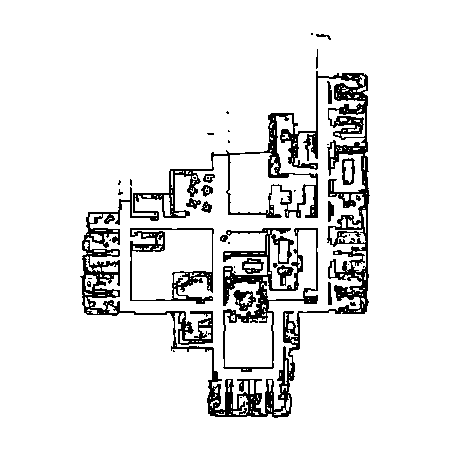
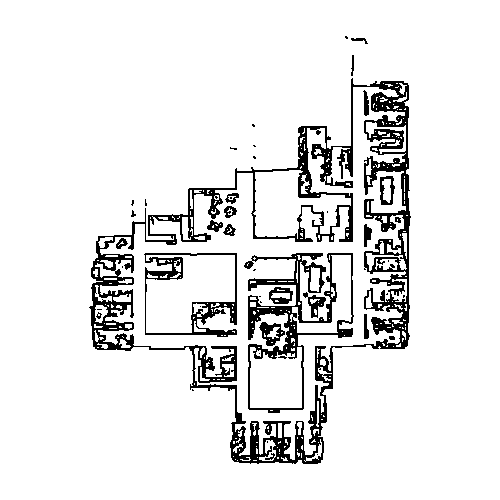
Experiments

Changed region(s): [[0.1867, 0.1244, 0.84, 0.9333], [0.6844, 0.0622, 0.7467, 0.0933]]

diff --git a/scripts/resize.py b/scripts/resize.py
@@ -10,8 +10,8 @@ for cluster in os.listdir('src/neural_astar/utils/voronoi_utilities/maps_data/ma
         for img in os.listdir('src/neural_astar/utils/voronoi_utilities/maps_data/maps/'+cluster):
             image = Image.open('src/neural_astar/utils/voronoi_utilities/maps_data/maps/'+cluster+'/'+img)
 
-            if image.size[0] >= 700 and image.size[1] >= 700:
-                tr = transforms.Resize(450)
+            if image.size[0] >= 800 and image.size[1] >= 800:
+                tr = transforms.Resize(500)
                 res = tr(image)
 
                 transform = transforms.Compose([

diff --git a/scripts/empty_folders.py b/scripts/empty_folders.py
@@ -1,0 +1,12 @@
+import os
+import shutil
+
+dir = '/home/mastrelli/neural-astar/src/neural_astar/utils/voronoi_utilities/maps_data/maps/'
+
+shutil.rmtree(dir + 'test_resized')
+shutil.rmtree(dir + 'train_resized')
+shutil.rmtree(dir + 'validation_resized')
+
+os.mkdir('src/neural_astar/utils/voronoi_utilities/maps_data/maps/test_resized')
+os.mkdir('src/neural_astar/utils/voronoi_utilities/maps_data/maps/train_resized')
+os.mkdir('src/neural_astar/utils/voronoi_utilities/maps_data/maps/validation_resized')
